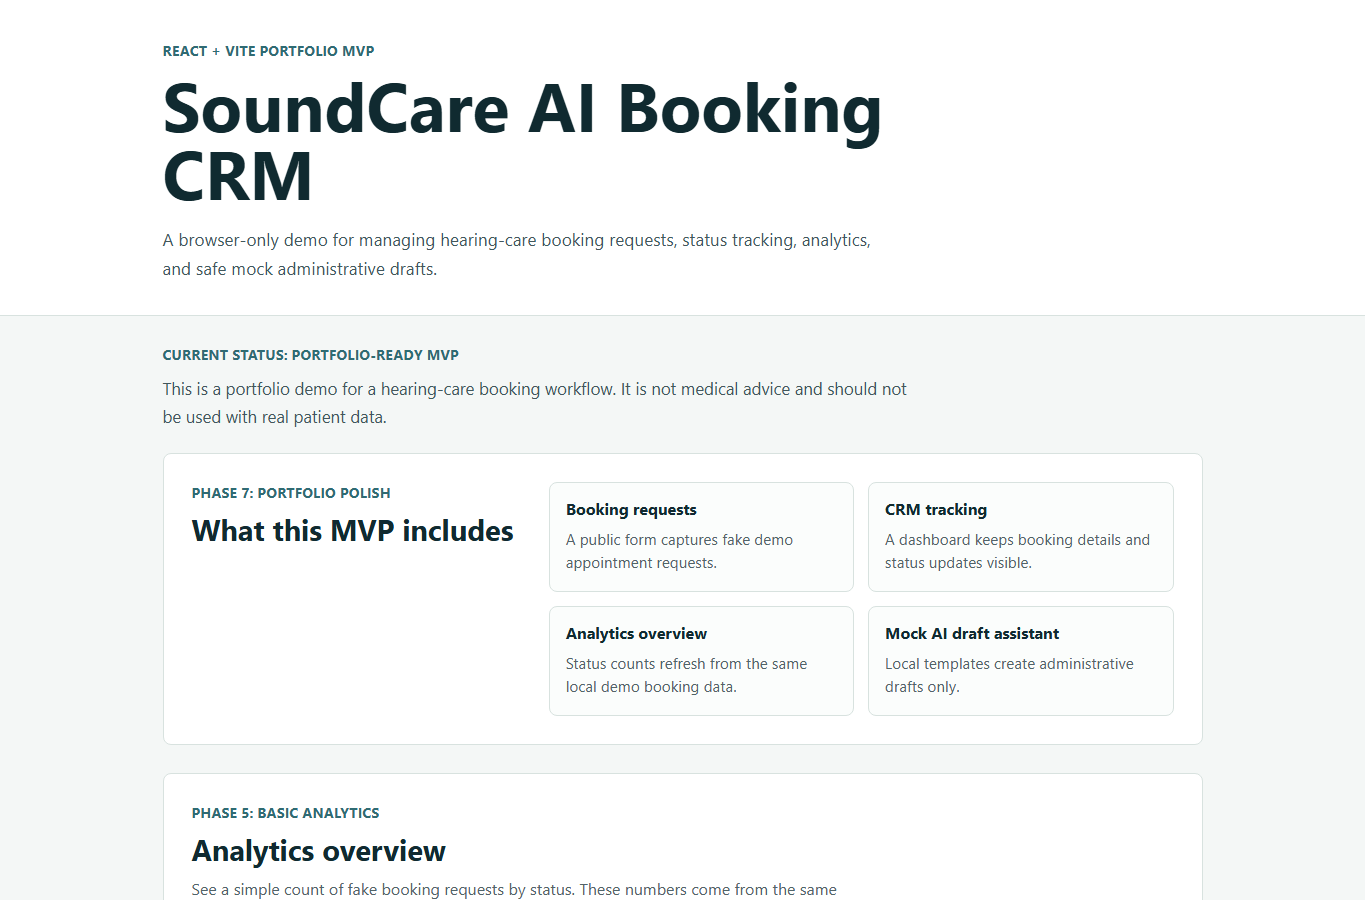
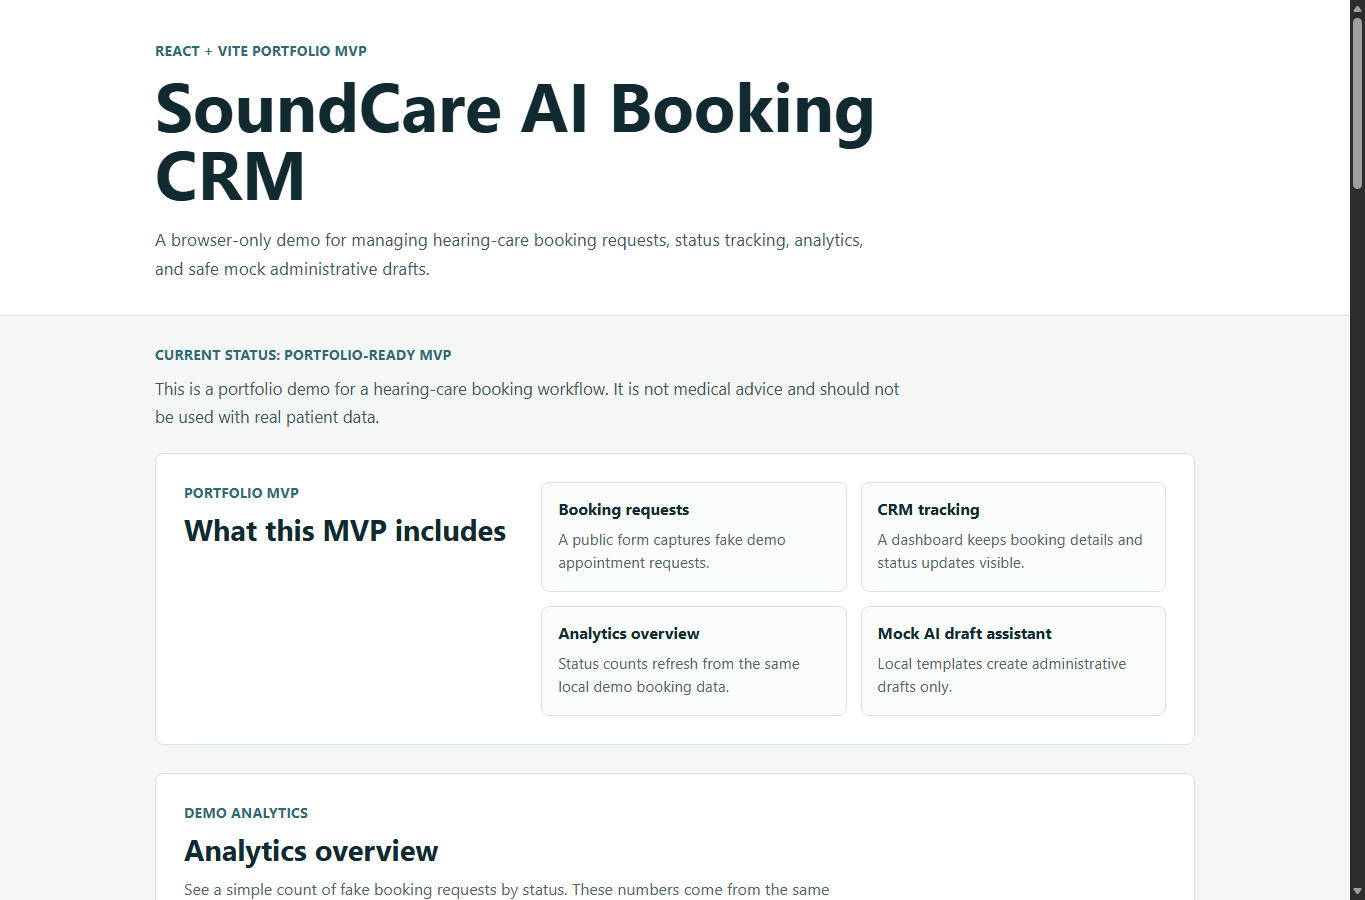
style: replace phase labels with product labels

diff --git a/src/components/BookingDashboard.jsx b/src/components/BookingDashboard.jsx
@@ -50,7 +50,7 @@ export default function BookingDashboard({ refreshKey, onBookingsChanged }) {
     <section className="booking-dashboard" aria-labelledby="dashboard-title">
       <div className="section-heading section-heading--with-action">
         <div>
-          <p className="phase-label">Phase 4: CRM booking dashboard</p>
+          <p className="phase-label">CRM overview</p>
           <h2 id="dashboard-title">Booking dashboard</h2>
           <p>
             Review fake demo bookings, change each request status, and reset the

diff --git a/src/components/BookingForm.jsx b/src/components/BookingForm.jsx
@@ -100,7 +100,7 @@ export default function BookingForm({ onBookingSaved }) {
   return (
     <section className="booking-form-section" aria-labelledby="booking-form-title">
       <div className="section-heading">
-        <p className="phase-label">Phase 3: Public booking request</p>
+        <p className="phase-label">Booking workflow</p>
         <h2 id="booking-form-title">Request a demo appointment</h2>
         <p>
           Submit fake portfolio data only. This demo stores booking requests in

diff --git a/src/components/MockAiAssistant.jsx b/src/components/MockAiAssistant.jsx
@@ -107,7 +107,7 @@ export default function MockAiAssistant({ refreshKey }) {
   return (
     <section className="mock-ai-assistant" aria-labelledby="mock-ai-title">
       <div className="section-heading">
-        <p className="phase-label">Phase 6: Mock AI assistant</p>
+        <p className="phase-label">Administrative assistant</p>
         <h2 id="mock-ai-title">Mock AI Assistant</h2>
         <p>
           Generate safe administrative draft text from fake demo booking data.

diff --git a/src/components/AnalyticsOverview.jsx b/src/components/AnalyticsOverview.jsx
@@ -62,7 +62,7 @@ export default function AnalyticsOverview({ refreshKey }) {
   return (
     <section className="analytics-overview" aria-labelledby="analytics-title">
       <div className="section-heading">
-        <p className="phase-label">Phase 5: Basic analytics</p>
+        <p className="phase-label">Demo analytics</p>
         <h2 id="analytics-title">Analytics overview</h2>
         <p>
           See a simple count of fake booking requests by status. These numbers

diff --git a/src/components/FeatureSummary.jsx b/src/components/FeatureSummary.jsx
@@ -21,7 +21,7 @@ export default function FeatureSummary() {
   return (
     <section className="feature-summary" aria-labelledby="feature-summary-title">
       <div className="feature-summary__heading">
-        <p className="phase-label">Phase 7: Portfolio polish</p>
+        <p className="phase-label">Portfolio MVP</p>
         <h2 id="feature-summary-title">What this MVP includes</h2>
       </div>
 

diff --git a/docs/CHANGELOG.md b/docs/CHANGELOG.md
@@ -1,5 +1,10 @@
 # Changelog
 
+## 0.12.2 - 2026-06-07
+- Replaced internal phase labels in the visible app UI with portfolio-friendly product labels.
+- Refreshed the portfolio screenshot set so screenshots match the current UI copy.
+- Kept app behavior, backend APIs, real AI calls, authentication, payments, real patient data, medical advice, diagnosis, treatment recommendations, and clinical claims out of scope.
+
 ## 0.12.1 - 2026-06-07
 - Completed a pre-deployment project audit pass after Phase 10.
 - Removed the unused `src/components/PlaceholderPanel.jsx` skeleton component.

diff --git a/README.md b/README.md
@@ -6,7 +6,7 @@ This is the active React app version of the project. The earlier WordPress plugi
 
 ## Current Status
 
-Phase 10: portfolio screenshots captured and documented.
+Portfolio-ready MVP with screenshots captured and documented.
 
 The MVP is browser-only and designed for portfolio review. The screenshot set in `docs/screenshots/` captures the first screen, analytics, booking form, CRM dashboard, status update, mock assistant draft, mobile layout, and footer safety note.
 
